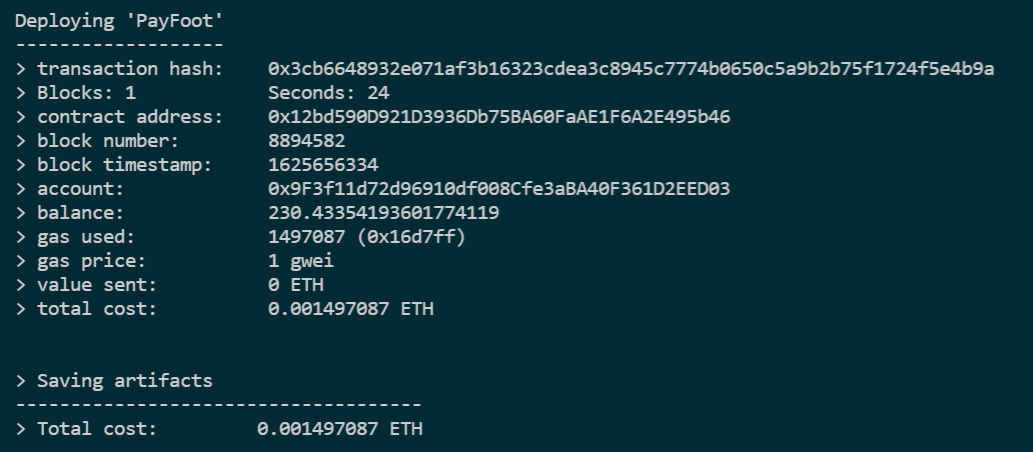
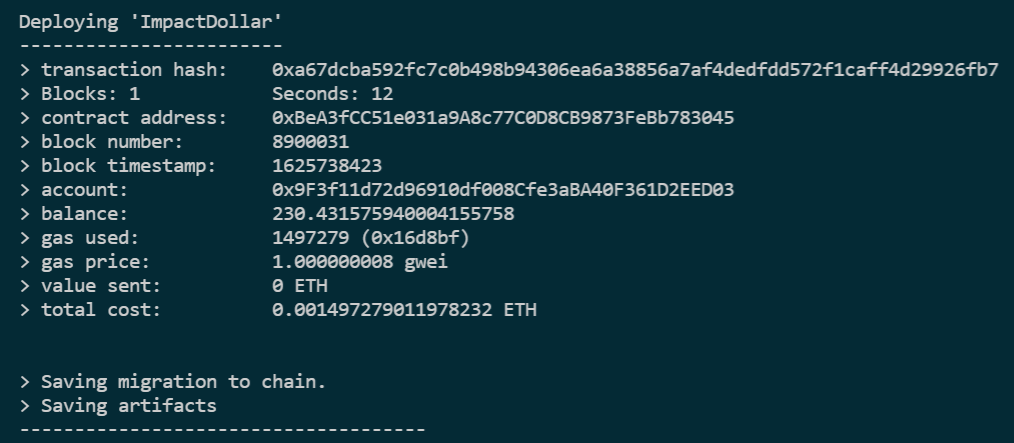
Rinkeby deployment

Changed region(s): [[0.0, 0.0293, 1.0, 0.7336], [0.0, 0.8217, 0.428, 0.9977]]

diff --git a/test/draft-ERC20Permit.test.js b/test/draft-ERC20Permit.test.js
@@ -1,0 +1,121 @@
+// Author: Pascal Marco Caversaccio
+// E-Mail: pascal.caversaccio@hotmail.ch
+
+const { BN, constants, expectRevert, time } = require('@openzeppelin/test-helpers');
+const { expect } = require('chai');
+const { MAX_UINT256 } = constants;
+
+const { fromRpcSig } = require('ethereumjs-util');
+const ethSigUtil = require('eth-sig-util');
+const Wallet = require('ethereumjs-wallet').default;
+
+const config = require('../scripts/data-config.json');
+const chain = 'rinkeby';
+
+const ERC20PermitMock = artifacts.require('ERC20PermitMock');
+
+const { EIP712Domain, domainSeparator } = require('../scripts/helper.js');
+
+const Permit = [
+  { name: 'owner', type: 'address' },
+  { name: 'spender', type: 'address' },
+  { name: 'value', type: 'uint256' },
+  { name: 'nonce', type: 'uint256' },
+  { name: 'deadline', type: 'uint256' },
+];
+
+contract('ERC20Permit', function (accounts) {
+  const [ initialHolder, spender ] = accounts;
+
+  const name = config[chain].name;
+  const symbol = config[chain].symbol;
+  const version = config[chain].version;
+
+  const initialSupply = new BN(100);
+
+  beforeEach(async function () {
+    this.token = await ERC20PermitMock.new(name, symbol, initialHolder, initialSupply);
+
+    // We get the chain id from the contract because Ganache (used for coverage) does not return the same chain id
+    // from within the EVM as from the JSON RPC interface.
+    // See https://github.com/trufflesuite/ganache-core/issues/515
+    this.chainId = await this.token.getChainId();
+  });
+
+  it('initial nonce is 0', async function () {
+    expect(await this.token.nonces(initialHolder)).to.be.bignumber.equal('0');
+  });
+
+  it('domain separator', async function () {
+    expect(
+      await this.token.DOMAIN_SEPARATOR(),
+    ).to.equal(
+      await domainSeparator(name, version, this.chainId, this.token.address),
+    );
+  });
+
+  describe('permit', function () {
+    const wallet = Wallet.generate();
+
+    const owner = wallet.getAddressString();
+    const value = new BN(42);
+    const nonce = 0;
+    const maxDeadline = MAX_UINT256;
+
+    const buildData = (chainId, verifyingContract, deadline = maxDeadline) => ({
+      primaryType: 'Permit',
+      types: { EIP712Domain, Permit },
+      domain: { name, version, chainId, verifyingContract },
+      message: { owner, spender, value, nonce, deadline },
+    });
+
+    it('accepts owner signature', async function () {
+      const data = buildData(this.chainId, this.token.address);
+      const signature = ethSigUtil.signTypedMessage(wallet.getPrivateKey(), { data });
+      const { v, r, s } = fromRpcSig(signature);
+
+      const receipt = await this.token.permit(owner, spender, value, maxDeadline, v, r, s);
+
+      expect(await this.token.nonces(owner)).to.be.bignumber.equal('1');
+      expect(await this.token.allowance(owner, spender)).to.be.bignumber.equal(value);
+    });
+
+    it('rejects reused signature', async function () {
+      const data = buildData(this.chainId, this.token.address);
+      const signature = ethSigUtil.signTypedMessage(wallet.getPrivateKey(), { data });
+      const { v, r, s } = fromRpcSig(signature);
+
+      await this.token.permit(owner, spender, value, maxDeadline, v, r, s);
+
+      await expectRevert(
+        this.token.permit(owner, spender, value, maxDeadline, v, r, s),
+        'ERC20Permit: invalid signature',
+      );
+    });
+
+    it('rejects other signature', async function () {
+      const otherWallet = Wallet.generate();
+      const data = buildData(this.chainId, this.token.address);
+      const signature = ethSigUtil.signTypedMessage(otherWallet.getPrivateKey(), { data });
+      const { v, r, s } = fromRpcSig(signature);
+
+      await expectRevert(
+        this.token.permit(owner, spender, value, maxDeadline, v, r, s),
+        'ERC20Permit: invalid signature',
+      );
+    });
+
+    it('rejects expired permit', async function () {
+      const deadline = (await time.latest()) - time.duration.weeks(1);
+
+      const data = buildData(this.chainId, this.token.address, deadline);
+      const signature = ethSigUtil.signTypedMessage(wallet.getPrivateKey(), { data });
+      const { v, r, s } = fromRpcSig(signature);
+
+      await expectRevert(
+        this.token.permit(owner, spender, value, deadline, v, r, s),
+        'ERC20Permit: expired deadline',
+      );
+    });
+  });
+});

diff --git a/truffle-config.js b/truffle-config.js
@@ -39,6 +39,10 @@ module.exports = {
       provider: () => new HDWalletProvider({mnemonic: {phrase: seedPhrase}, providerOrUrl: `${config.payfoot.url}`}),
       network_id: config.payfoot.network_id,
     },
+    porini: {
+      provider: () => new HDWalletProvider({mnemonic: {phrase: seedPhrase}, providerOrUrl: `${config.porini.url}`}),
+      network_id: config.porini.network_id,
+    },
   },
 
   // Configure our compilers

diff --git a/migrations/1_initial_migration.js b/migrations/1_initial_migration.js
@@ -1,4 +1,4 @@
-const Migrations = artifacts.require("Migrations");
+const Migrations = artifacts.require('Migrations');
 
 module.exports = function (deployer) {
   deployer.deploy(Migrations);

diff --git a/migrations/2_deploy_contracts.js b/migrations/2_deploy_contracts.js
@@ -1,0 +1,5 @@
+const ImpactDollar = artifacts.require('ImpactDollar');
+
+module.exports = function (deployer) {
+  deployer.deploy(ImpactDollar);
+};

diff --git a/README.md b/README.md
@@ -108,10 +108,10 @@ Go to the corresponding Etherscan link, e.g. https://rinkeby.etherscan.io/addres
 
 ## Test Deployments
 The smart contract [`PayFoot.sol`](https://gitlab.appswithlove.net/payfoot/payfoot-token-contract/-/blob/main/contracts/PayFoot.sol) has been deployed across all the major test networks:
-- **Rinkeby:** [0x12bd590D921D3936Db75BA60FaAE1F6A2E495b46](https://rinkeby.etherscan.io/address/0x12bd590d921d3936db75ba60faae1f6a2e495b46)
-- **Ropsten:** [0xA7125fB628A2d4A60Cb650709ac046B5B2f9C12D](https://ropsten.etherscan.io/address/0xA7125fB628A2d4A60Cb650709ac046B5B2f9C12D)
-- **Kovan:** [0x667483ec1078c64f8D7e35B49152C3c2C87cCB56](https://kovan.etherscan.io/address/0x667483ec1078c64f8D7e35B49152C3c2C87cCB56)
-- **Goerli:** [0x31e6Bf2c4E2Aa5AFC0e85b5feEF73C9137B24c5E](https://goerli.etherscan.io/address/0x31e6Bf2c4E2Aa5AFC0e85b5feEF73C9137B24c5E)
+- **Rinkeby:** [0xBeA3fCC51e031a9A8c77C0D8CB9873FeBb783045](https://rinkeby.etherscan.io/address/0xbea3fcc51e031a9a8c77c0d8cb9873febb783045)
+- **Ropsten:** [TBD](TBD)
+- **Kovan:** [TBD](TBD)
+- **Goerli:** [TBD](TBD)
 
 ## Production Deployments on PayFoot
 The smart contract [`PayFoot.sol`](https://gitlab.appswithlove.net/payfoot/payfoot-token-contract/-/blob/main/contracts/PayFoot.sol) has been deployed to the PayFoot network with [Remix<sup>*</sup> ](http://remix.ethereum.org) and signed with the PayFoot hardware wallet (Ledger Nano S):

diff --git a/CHANGELOG.md b/CHANGELOG.md
@@ -1,6 +1,6 @@
 # Changelog
 
-## 07-07-2021
+## 08-07-2021
 
 ### Added
 - Fully-fledged smart contract repository, inspired by Säntis Gulden's repository available [here](https://gitlab.appswithlove.net/saentis-gulden/saentis-gulden-token-contract);
